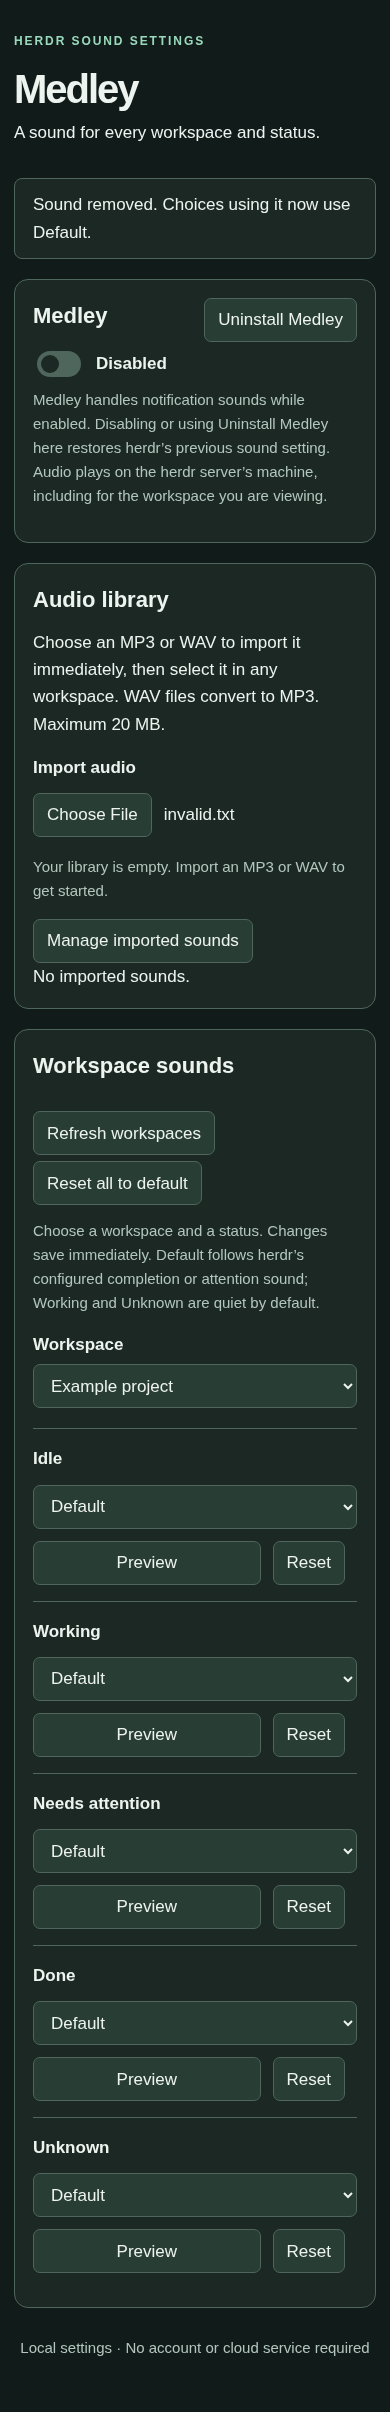
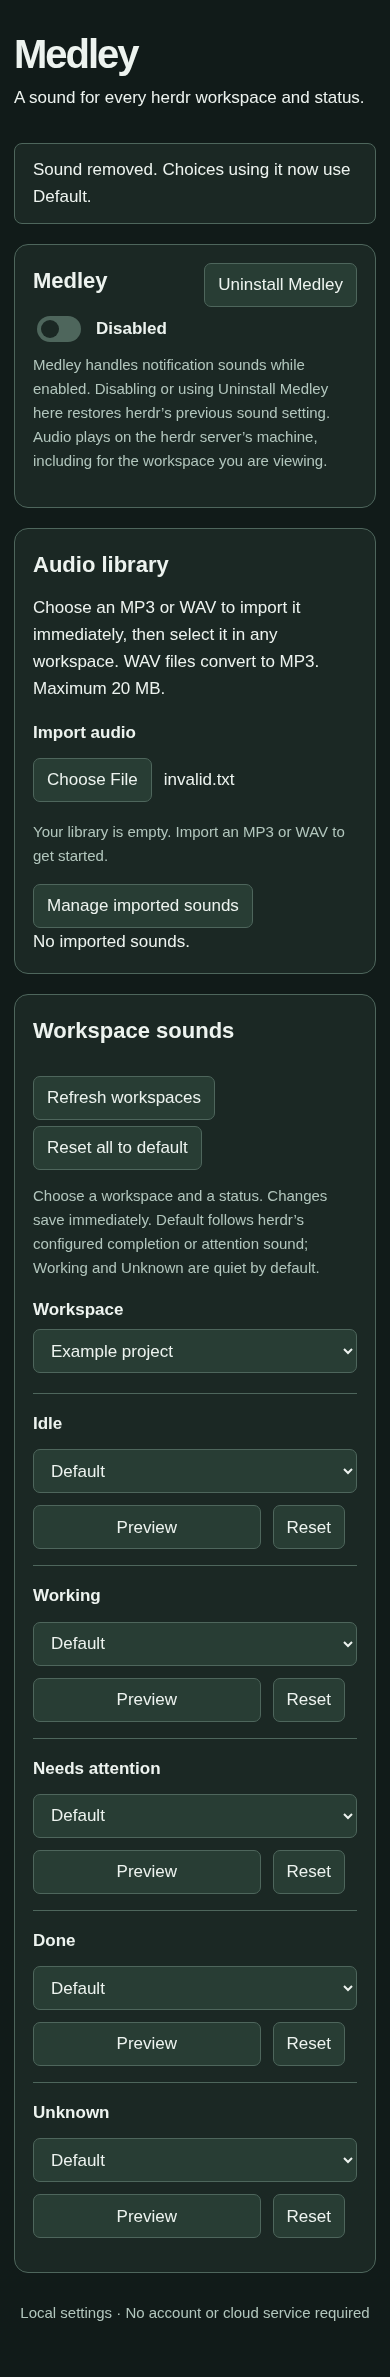
Simplify Medley heading and initial status copy

diff --git a/assets/index.html b/assets/index.html
@@ -1,7 +1,7 @@
 <!doctype html>
 <html lang="en"><head><meta charset="utf-8"><meta name="viewport" content="width=device-width, initial-scale=1"><title>Medley · Workspace sounds</title><link rel="stylesheet" href="/style.css"><script defer src="/app.js"></script></head>
-<body><main><header><p class="eyebrow">HERDR SOUND SETTINGS</p><h1>Medley</h1><p>A sound for every workspace and status.</p></header>
-<p id="feedback" role="status" aria-live="polite">Loading settings…</p><p id="error" role="alert" hidden></p><audio id="player" controls hidden aria-label="Sound preview"></audio>
+<body><main><header><h1>Medley</h1><p>A sound for every herdr workspace and status.</p></header>
+<p id="feedback" role="status" aria-live="polite" hidden></p><p id="error" role="alert" hidden></p><audio id="player" controls hidden aria-label="Sound preview"></audio>
 <section aria-labelledby="playback-heading"><div class="section-heading"><h2 id="playback-heading">Medley</h2><button id="uninstall">Uninstall Medley</button></div><label class="toggle"><input type="checkbox" role="switch" aria-label="Medley enabled" id="enabled"> <span id="enabled-label">Disabled</span></label><p class="help">Medley handles notification sounds while enabled. Disabling or using Uninstall Medley here restores herdr’s previous sound setting. Audio plays on the herdr server’s machine, including for the workspace you are viewing.</p></section>
 <section aria-labelledby="library-heading"><h2 id="library-heading">Audio library</h2><p>Choose an MP3 or WAV to import it immediately, then select it in any workspace. WAV files convert to MP3. Maximum 20 MB.</p><label for="upload">Import audio</label><input type="file" accept=".mp3,.wav,audio/mpeg,audio/wav" id="upload"><p id="library" class="help"></p><button id="manage-library" aria-expanded="false" aria-controls="library-files">Manage imported sounds</button><div id="library-files" hidden></div></section>
 <section aria-labelledby="rules-heading"><div class="section-heading"><h2 id="rules-heading">Workspace sounds</h2><div><button id="refresh">Refresh workspaces</button> <button id="reset">Reset all to default</button> <button id="undo" hidden>Undo reset</button></div></div><p class="help">Choose a workspace and a status. Changes save immediately. Default follows herdr’s configured completion or attention sound; Working and Unknown are quiet by default.</p>

diff --git a/assets/app.js b/assets/app.js
@@ -13,6 +13,7 @@ async function request(path, data) {
 async function run(message, operation) {
   const focusedId = document.activeElement.id;
   $('error').hidden = true;
+  $('feedback').hidden = false;
   $('feedback').textContent = 'Saving…';
   document.querySelectorAll('button,input,select').forEach(element => element.disabled = true);
   try {const result = await operation(); $('feedback').textContent = result || message;}
@@ -98,7 +99,7 @@ $('upload').onchange = () => {
   await request('/upload',{name:file.name,content});$('upload').value = '';await load();
   });
 };
-run('Settings ready. Changes save immediately.',load);
+load().catch(error => { $('error').textContent=error.message; $('error').hidden=false; });
 
 $('uninstall').onclick = () => {
   if (!confirm('Uninstall Medley? Herdr’s previous sound setting will be restored first. Your imported sounds and saved choices will be kept.')) return;

diff --git a/docs/validation.md b/docs/validation.md
@@ -208,3 +208,11 @@ manual screen-reader and magnification testing not performed.
 Vendored block contract: none. Security: PASS for authenticated endpoint routing,
 argv subprocess execution, audio validation and bounded conversion; no cloud upload
 or new network boundary. Actual live uninstall deliberately not exercised.
+
+## Header copy — 2026-10-20
+
+Header now contains only “Medley” and “A sound for every herdr workspace and status.”
+Removed the eyebrow and initial ready message. Feedback stays hidden on initial
+load and reload, then appears for user actions; initial load errors still surface.
+15 Python checks and Chromium browser checks passed, including hidden initial
+feedback assertions. No API or stored setting change.
